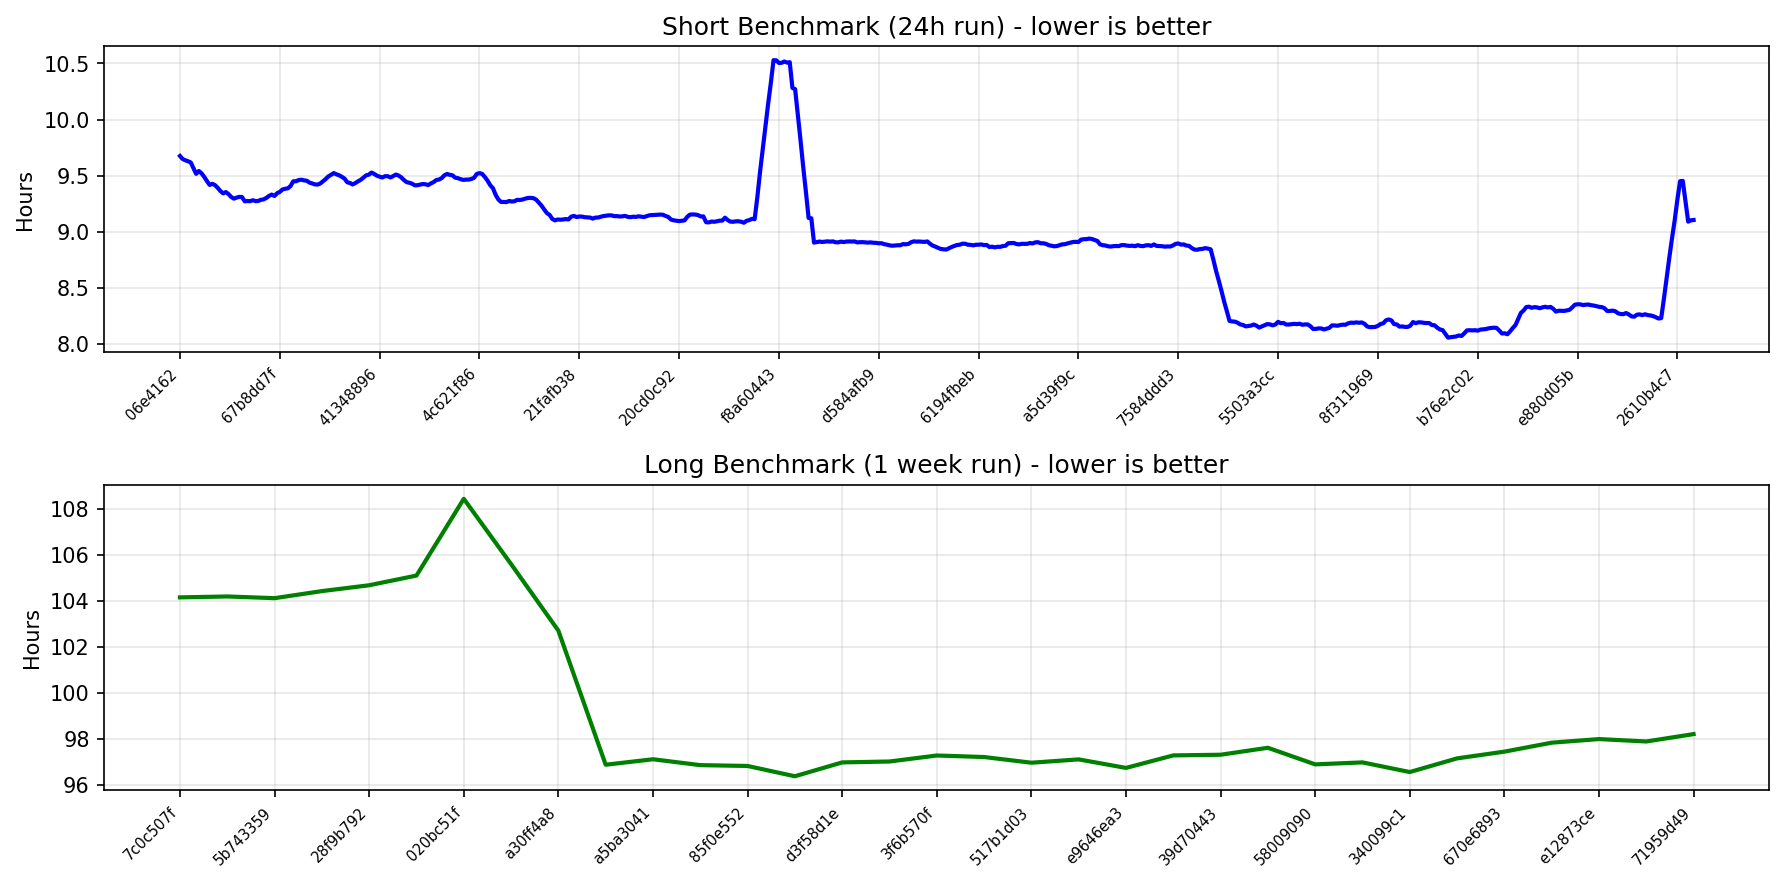
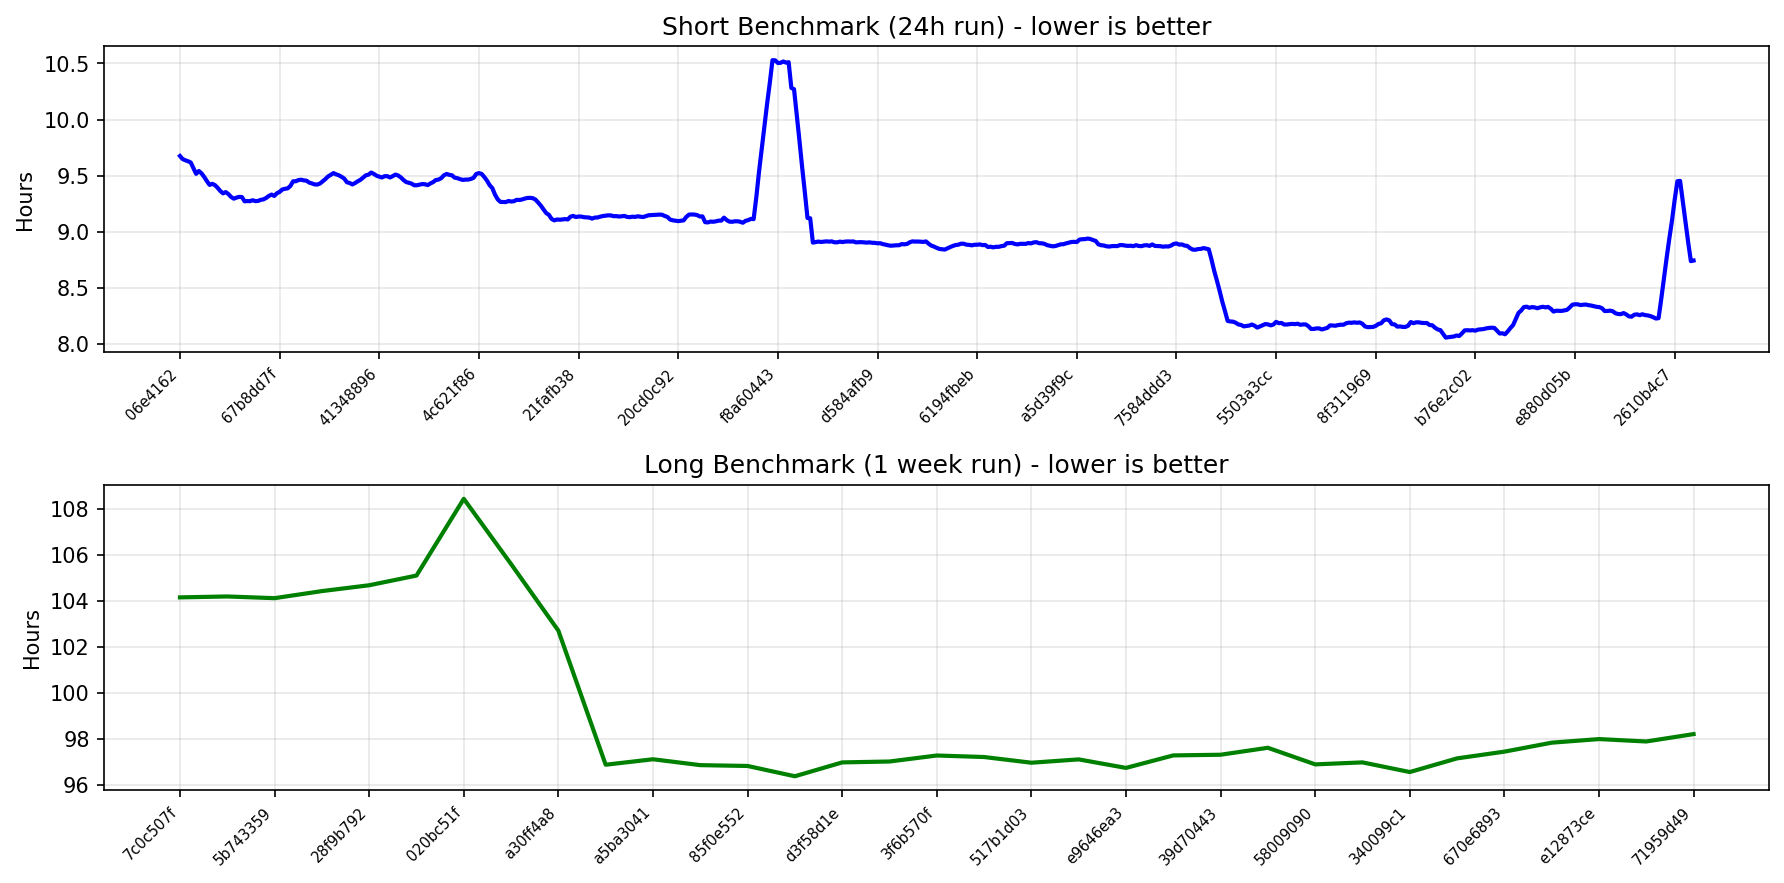
chore: update short benchmark Readme

diff --git a/README.md b/README.md
@@ -12,11 +12,11 @@ This repository contains various eth1 import benchmark metrics.
 
 | Generated At | Baseline SHA | Contender SHA | Baseline Time | Contender Time | Time Delta |
 |--------------|--------------|---------------|---------------|----------------|------------|
+| 2026-04-12 06:19:58 | [6c0f46d0](https://github.com/status-im/nimbus-eth1/commit/6c0f46d0) | [a7868358](https://github.com/status-im/nimbus-eth1/commit/a7868358) | 8h12m48s | 8h10m26s | -2m22s, -0.48% |
 | 2026-04-11 21:52:41 | [e6a7039f](https://github.com/status-im/nimbus-eth1/commit/e6a7039f) | [6c0f46d0](https://github.com/status-im/nimbus-eth1/commit/6c0f46d0) | 9h30m47s | 8h12m48s | -1h17m58s, -13.66% |
 | 2026-04-11 12:09:19 | [67318ec5](https://github.com/status-im/nimbus-eth1/commit/67318ec5) | [e6a7039f](https://github.com/status-im/nimbus-eth1/commit/e6a7039f) | 9h24m2s | 9h30m47s | 6m45s, 1.20% |
 | 2026-04-11 02:32:38 | [9fb8569c](https://github.com/status-im/nimbus-eth1/commit/9fb8569c) | [67318ec5](https://github.com/status-im/nimbus-eth1/commit/67318ec5) | 9h28m39s | 9h24m2s | -4m36s, -0.81% |
 | 2026-04-10 16:51:17 | [2b7383eb](https://github.com/status-im/nimbus-eth1/commit/2b7383eb) | [9fb8569c](https://github.com/status-im/nimbus-eth1/commit/9fb8569c) | 9h23m1s | 9h28m39s | 5m37s, 1.00% |
-| 2026-04-10 07:15:33 | [41cafe0d](https://github.com/status-im/nimbus-eth1/commit/41cafe0d) | [2b7383eb](https://github.com/status-im/nimbus-eth1/commit/2b7383eb) | 9h25m41s | 9h23m1s | -2m39s, -0.47% |
 
 ## Latest 5 Long Benchmarks (1 Week Run)
 
